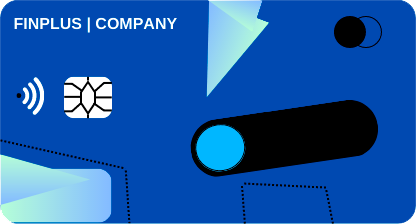
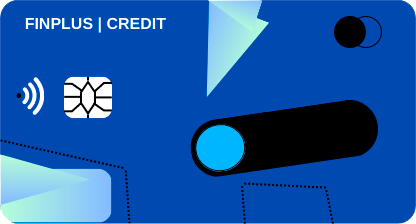
adding categories for each card of the  application

Changed region(s): [[0.0312, 0.0625, 0.4375, 0.1562]]

diff --git a/public/script.js b/public/script.js
@@ -7,14 +7,14 @@ const transactionsEl = document.querySelector('.transactions')
 const transactionsList = document.querySelector('.transactionsList')
 
 const spending = [
-  {type: "Market", percent: "31", color: '#FFD700'},
-  {type: "Medicine", percent: "16", color: '#FFA500'},
-  {type: "Entertainment", percent: "12", color: '#FF6347'},
-  {type: "Transport", percent:"9", color: '#4169E1'},
-  {type: "Restaurant", percent:"8", color: '#556B2F'},
-  {type: "Travel", percent: "7", color: '#708090'},
-  {type: "Tax", percent: "5", color: '#000000'},
-  {type: "Others", percent: "12", color: '#DCDCDC'}
+  {type: "Market", percentDebit: "31", percentCredit: "15", percentCompany: "15", color: '#FFD700'},
+  {type: "Medicine", percentDebit: "16", percentCredit: "5", percentCompany: "0", color: '#FFA500'},
+  {type: "Entertainment", percentDebit: "12", percentCredit: "22", percentCompany: "10", color: '#FF6347'},
+  {type: "Transport", percentDebit:"9", percentCredit: "8", percentCompany: "28", color: '#4169E1'},
+  {type: "Restaurant", percentDebit:"8", percentCredit: "20", percentCompany: "0", color: '#556B2F'},
+  {type: "Travel", percentDebit: "7", percentCredit: "6", percentCompany: "0", color: '#708090'},
+  {type: "Tax", percentDebit: "5", percentCredit: "6", percentCompany: "16", color: '#000000'},
+  {type: "Others", percentDebit: "12", percentCredit: "8", percentCompany: "30", color: '#DCDCDC'}
 ];
 
 const transactions = [
@@ -32,7 +32,9 @@ const icons = [
 ]
 
 
-const percents = spending.map(({percent}) => parseInt(percent, 10));
+const percentsDebit = spending.map(({percentDebit}) => parseInt(percentDebit, 10));
+const percentsCredit = spending.map(({percentCredit}) => parseInt(percentCredit, 10));
+const percentsCompany = spending.map(({percentCompany}) => parseInt(percentCompany, 10));
 const categories = spending.map(({type}) => type);
 const colors = spending.map(({color}) => color);
 
@@ -43,19 +45,31 @@ function getSald(min, max) {
 }
 
 const balance = getSald(2100, 3500);
-const expenseTotal = getSald(2100, 3500);
-const remainingBalance = balance - expenseTotal;
-const expensesValues = percents.map((arr)=>{return expenseTotal * arr /100})
+const expenseDebitTotal = getSald(2100, 3500);
+const remainingBalance = balance - expenseDebitTotal;
+const expensesDebit = percentsDebit.map((arr)=>{return expenseDebitTotal * arr /100})
 
+const balanceCredit = getSald(4000,5500)
+const expenseCreditTotal = getSald(3800, 4100);
+const remainingCreditBalance = balanceCredit - expenseCreditTotal;  
+const expensesCredit = percentsCredit.map((arr)=>{return expenseCreditTotal * arr /100})
+
+const balanceCompanyCard = getSald(14000,22000)
+const expenseCompanyCardTotal = getSald(12000, 16000);
+const remainingCompanyCardBalance = balanceCompanyCard - expenseCompanyCardTotal; 
+const expensesCompanyCard = percentsCompany.map((arr)=>{return expenseCompanyCardTotal * arr /100})
 
 function createExtract() {
+  walletValues(balance, remainingBalance, expenseTotal)
+  printExpenses(expensesDebit, percentsDebit);
+}
+function walletValues(balance, remainingBalance, expenseTotal){
   balanceEl.innerHTML = `<h1>$ ${balance}.00 </h1>`;
   expensesEl.innerHTML = `$ ${expenseTotal}.00`;
   remainingBalanceEl.innerHTML = `$ ${remainingBalance}.00`;
-  printExpenses();
 }
 
-function printExpenses() {
+function printExpenses(expenses,percents) {
   listEl.innerHTML = "";
   barEl.innerHTML = "";
 
@@ -74,7 +88,7 @@ function printExpenses() {
     categoriesColor.style.backgroundColor = colors[i];
 
     listItems.textContent = `${categories[i]} ${percents[i]}%`;
-    valueBar.textContent = `$${expensesValues[i]}`
+    valueBar.textContent = `$${expenses[i]}`
 
     listEl.appendChild(listItems);
     barEl.appendChild(barColor);
@@ -105,12 +119,20 @@ function showCard(card){
   const cardType = card.getAttribute("data-card")
   if(cardType === "debit"){
     elCurrentCard.style.backgroundImage= "url(./images/DebitCard.png)"
+    walletValues(balance, remainingBalance, expenseDebitTotal)
+    printExpenses(expensesDebit, percentsDebit);
   }
   if(cardType === "credit"){
     elCurrentCard.style.backgroundImage= "url(./images/CreditCard.png)"
+
+    walletValues(balanceCredit, expenseCreditTotal, remainingCreditBalance)
+    printExpenses(expensesCredit, percentsCredit);
   }
   if(cardType === "company"){
     elCurrentCard.style.backgroundImage= "url(./images/CompanyCard.png)"
+   
+    walletValues(balanceCompanyCard, expenseCompanyCardTotal, remainingCompanyCardBalance)
+    printExpenses(expensesCompanyCard, percentsCompany )
   }
 }
 

diff --git a/public/style.css b/public/style.css
@@ -14,7 +14,7 @@ body{
 
 .containerBar
 {
-    height: 900px;
+    height: 800px;
     width: 20%;
     border-right: 1px solid rgb(197, 197, 197);
     background-color: rgb(11, 11, 11);
@@ -78,8 +78,6 @@ body{
     cursor: pointer;
     box-shadow: 5px 5px 14px;
     border-radius: 12px;
-
-
 }
 .container 
 {
@@ -107,8 +105,21 @@ body{
 {
     border-radius: 12px;
     width: 400px;
+    animation: effect ease-in-out 2s;
     height: 200px;
 }
+
+@keyframes effect {
+    0%{
+        opacity: 0.1;
+        transform: translate(-10px);
+    }
+    100%{
+        opacity: 1;
+        transform: translate(0px);
+    }
+}
+
 .buttons
 {
     margin-left: 30px;
@@ -157,7 +168,6 @@ body{
     display: grid;
     justify-content: center;
 }
-
 .graphs
 {
     display: grid;
